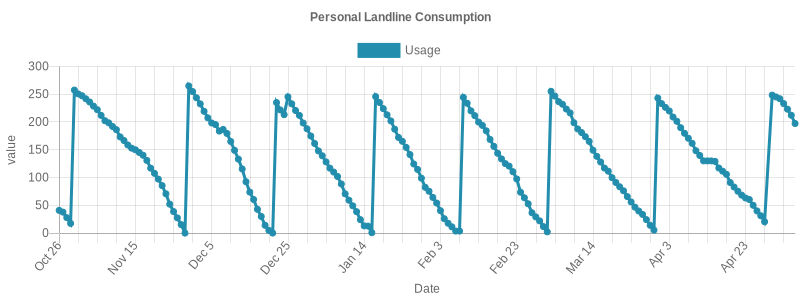
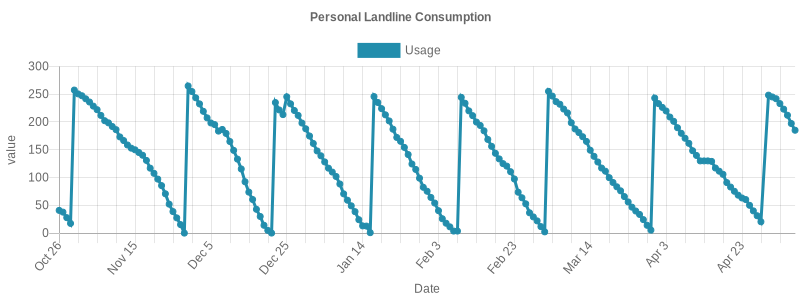
update logs

diff --git a/quota-logs/README.md b/quota-logs/README.md
@@ -191,3 +191,4 @@
 ## Sat May 04 2024 00:34:34 GMT+0200|223.05/250
 ## Sun May 05 2024 00:34:38 GMT+0200|212.1/250
 ## Mon May 06 2024 00:34:23 GMT+0200|197.22/250
+## Tue May 07 2024 00:34:30 GMT+0200|185.12/250
